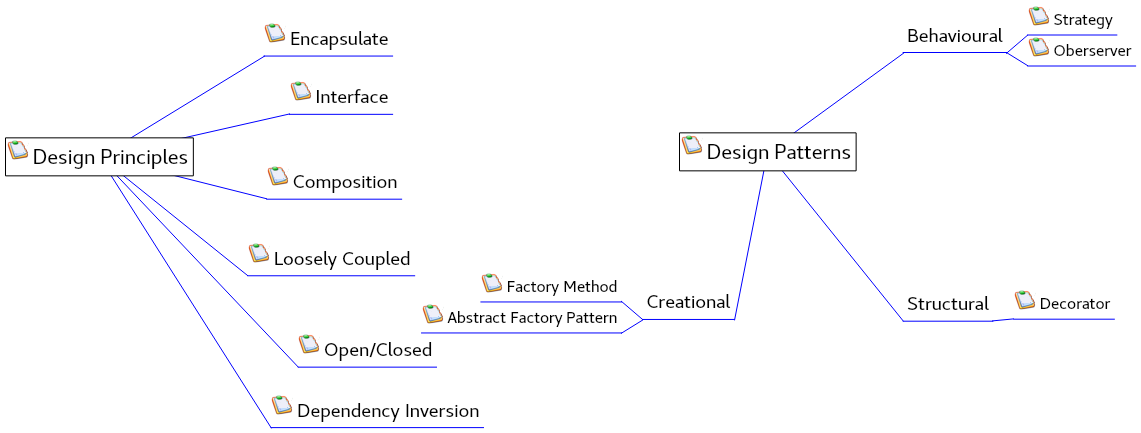
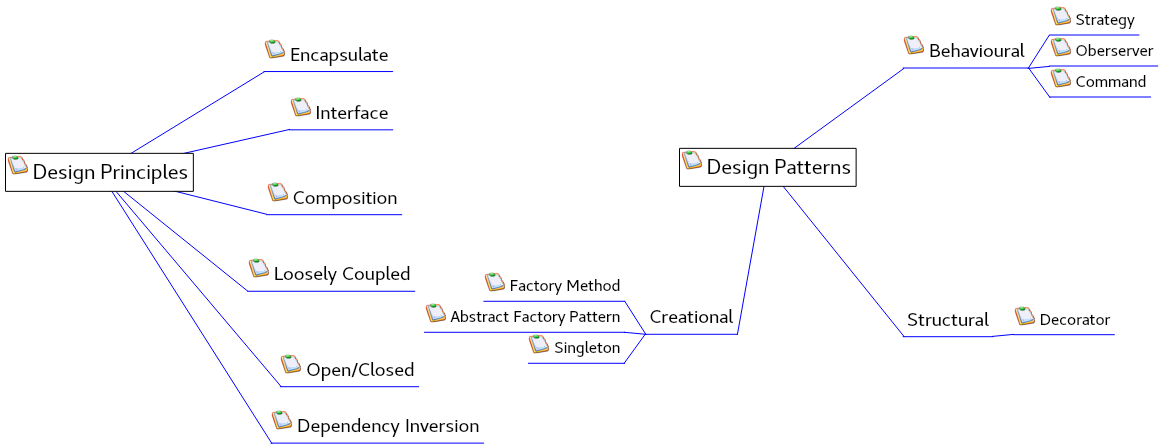
More Pattern diagrams added

diff --git a/PatternBook/NoteBook/Patterns.html b/PatternBook/NoteBook/Patterns.html
@@ -17,11 +17,13 @@ Contents:
 </div><div class="vym-toc-branch-1"><a href="#mc:0,bo:0"> 1.  Behavioural</a></br>
 </div><div class="vym-toc-branch-2"><a href="#mc:0,bo:0,bo:0"> 1.1.  Strategy</a></br>
 </div><div class="vym-toc-branch-2"><a href="#mc:0,bo:0,bo:1"> 1.2.  Oberserver</a></br>
+</div><div class="vym-toc-branch-2"><a href="#mc:0,bo:0,bo:2"> 1.3.  Command</a></br>
 </div><div class="vym-toc-branch-1"><a href="#mc:0,bo:1"> 2.  Structural</a></br>
 </div><div class="vym-toc-branch-2"><a href="#mc:0,bo:1,bo:0"> 2.1.  Decorator</a></br>
 </div><div class="vym-toc-branch-1"><a href="#mc:0,bo:2"> 3.  Creational</a></br>
 </div><div class="vym-toc-branch-2"><a href="#mc:0,bo:2,bo:0"> 3.1.  Factory Method</a></br>
 </div><div class="vym-toc-branch-2"><a href="#mc:0,bo:2,bo:1"> 3.2.  Abstract Factory Pattern</a></br>
+</div><div class="vym-toc-branch-2"><a href="#mc:0,bo:2,bo:2"> 3.3.  Singleton</a></br>
 </div><div class="vym-toc-branch-0"><a href="#mc:1">  Design Principles</a></br>
 </div><div class="vym-toc-branch-1"><a href="#mc:1,bo:0"> 1.  Encapsulate</a></br>
 </div><div class="vym-toc-branch-1"><a href="#mc:1,bo:1"> 2.  Composition</a></br>
@@ -42,7 +44,12 @@ Contents:
 </td></tr></table>
 </h1>
   
-  <h2><span class='vym-branch-1' style='color:#000000' id='mc:0,bo:0'>Behavioural</span></h2>
+  <h2><span class='vym-branch-1' style='color:#000000' id='mc:0,bo:0'>Behavioural</span>
+<table class="vym-note"><tr><td class="vym-note-flag">
+<td>
+Command pattern encapsulates the request as an object there by letting you to<br/>parameterize other objects with differnt requests, queues or log requests and<br/>support undo opearations.
+</td></tr></table>
+</h2>
     <ul class="vym-list-ul-2">
       <li><span class='vym-branch-2' style='color:#000000' id='mc:0,bo:0,bo:0'>Strategy</span>
 <table class="vym-note"><tr><td class="vym-note-flag">
@@ -54,6 +61,12 @@ Strategy Pattern defines a family of algorithm, encapsulates each one and makes<
 <table class="vym-note"><tr><td class="vym-note-flag">
 <td>
 Observer Pattern defines a 1 to * dependency between objects so that when one<br/>object changes state all its dependent objects are notified and updated<br/>automatically.<br/>- Java has an in built Observer pattern support in its util package.<br/>- Observer can either push or pull the data from Observable, However pull is<br/>considered more correct.<br/>- Pattern is heavily used in GUI frameworks like SWING, Java Beans, RMI etc
+</td></tr></table>
+  </li>
+      <li><span class='vym-branch-2' style='color:#000000' id='mc:0,bo:0,bo:2'>Command</span>
+<table class="vym-note"><tr><td class="vym-note-flag">
+<td>
+Encapsulates a request as an object , thereby letting you parameterize clients<br/>with different requests,queue or log requests and support undo operations.<br/> - Use when you need to decouple an object making requests from those which<br/>knows how to perform it<br/> - Macro Commands are sets of Command objects that can be invoked, and undo-ed.<br/>- Command pattern can be used for queuing commands, wait for first command to<br/>complete execution and then execute the next one.<br/><br/>- Command pattern can be used to restore to a check point. i,e Log what all<br/>happend to a stack, and undo it if you want to restore.
 </td></tr></table>
   </li>
     </ul>
@@ -78,6 +91,12 @@ Factory Method pattern defines an interface for creating an object, but lets<br/
 <table class="vym-note"><tr><td class="vym-note-flag">
 <td>
 Abstract factory pattern provides an interface for creating families of related<br/>or dependend objects without specifying their concreate classes.<br/><br/> To use the the factory, instatiate one an pass it to a code that is written<br/>against the abstract type.<br/><br/>F : use classes to create objects <br/>A : uses objects to create objects<br/>F : uses inheritence<br/>A : uses composition<br/>A : use this when you have families of product and you want to make sure client<br/>create products that belong together<br/>F :  use this when you don't know  ahead of time what all concreate classes you<br/>need.
+</td></tr></table>
+  </li>
+      <li><span class='vym-branch-2' style='color:#000000' id='mc:0,bo:2,bo:2'>Singleton</span>
+<table class="vym-note"><tr><td class="vym-note-flag">
+<td>
+Singleton Pattern ensures a class has only one instance and provides a global<br/>point of access to it.<br/><br/>Three methods<br/>1. Lazy instantiantion<br/>      - Have issue of duplication in multithreaded env. Solution 2 or 3<br/>2. Eager instantiation<br/>      - Instantiate during class loading. Issue is that in case there are<br/>multiple class loaders duplication can occur.<br/>3. Double check locking<br/>     - uses volatile static variable and sychronized creation.
 </td></tr></table>
   </li>
     </ul>
@@ -128,22 +147,24 @@ Depend on abstractions not upon concreate classes.<br/> - No variable should hol
   
 
 <map name='imagemap'>
-  <area shape='rect' coords='702.5,133.85,855.125,169.85' href='#mc:0'>
-  <area shape='rect' coords='903.163,18.5,1006.71,51.5' href='#mc:0,bo:0'>
-  <area shape='rect' coords='1049.71,5,1116.82,34' href='#mc:0,bo:0,bo:0'>
-  <area shape='rect' coords='1049.71,36,1135.6,65' href='#mc:0,bo:0,bo:1'>
-  <area shape='rect' coords='903.163,287.2,992.85,320.2' href='#mc:0,bo:1'>
-  <area shape='rect' coords='1035.85,289.2,1114.33,318.2' href='#mc:0,bo:1,bo:0'>
-  <area shape='rect' coords='642.515,285.463,734.249,318.463' href='#mc:0,bo:2'>
-  <area shape='rect' coords='502.921,271.963,621.515,300.963' href='#mc:0,bo:2,bo:0'>
-  <area shape='rect' coords='443.562,302.963,621.515,331.963' href='#mc:0,bo:2,bo:1'>
-  <area shape='rect' coords='28.5,138.85,192.344,174.85' href='#mc:1'>
-  <area shape='rect' coords='286.036,22.05,392.598,55.05' href='#mc:1,bo:0'>
-  <area shape='rect' coords='288.772,165.2,401.631,198.2' href='#mc:1,bo:1'>
-  <area shape='rect' coords='311.513,80.3385,392.622,113.339' href='#mc:1,bo:2'>
-  <area shape='rect' coords='269.814,241.776,414.658,274.776' href='#mc:1,bo:3'>
-  <area shape='rect' coords='320.231,333.155,436.513,366.155' href='#mc:1,bo:4'>
-  <area shape='rect' coords='293.119,393.614,483.494,426.614' href='#mc:1,bo:5'>
+  <area shape='rect' coords='702.5,149.35,855.125,185.35' href='#mc:0'>
+  <area shape='rect' coords='925.163,34,1028.71,67' href='#mc:0,bo:0'>
+  <area shape='rect' coords='1071.71,5,1138.82,34' href='#mc:0,bo:0,bo:0'>
+  <area shape='rect' coords='1071.71,36,1157.6,65' href='#mc:0,bo:0,bo:1'>
+  <area shape='rect' coords='1071.71,67,1150.55,96' href='#mc:0,bo:0,bo:2'>
+  <area shape='rect' coords='903.163,302.7,992.85,335.7' href='#mc:0,bo:1'>
+  <area shape='rect' coords='1035.85,304.7,1114.33,333.7' href='#mc:0,bo:1,bo:0'>
+  <area shape='rect' coords='645.504,300.284,737.239,333.284' href='#mc:0,bo:2'>
+  <area shape='rect' coords='505.91,271.284,624.504,300.284' href='#mc:0,bo:2,bo:0'>
+  <area shape='rect' coords='446.551,302.284,624.504,331.284' href='#mc:0,bo:2,bo:1'>
+  <area shape='rect' coords='550.489,333.284,624.504,362.284' href='#mc:0,bo:2,bo:2'>
+  <area shape='rect' coords='28.5,154.35,192.344,190.35' href='#mc:1'>
+  <area shape='rect' coords='286.036,37.55,392.598,70.55' href='#mc:1,bo:0'>
+  <area shape='rect' coords='288.772,180.7,401.631,213.7' href='#mc:1,bo:1'>
+  <area shape='rect' coords='311.513,95.8385,392.622,128.839' href='#mc:1,bo:2'>
+  <area shape='rect' coords='269.814,257.276,414.658,290.276' href='#mc:1,bo:3'>
+  <area shape='rect' coords='302.356,352.714,418.637,385.714' href='#mc:1,bo:4'>
+  <area shape='rect' coords='293.119,409.114,483.494,442.114' href='#mc:1,bo:5'>
 </map>
 <hr/>
 <table class="vym-footer">   
